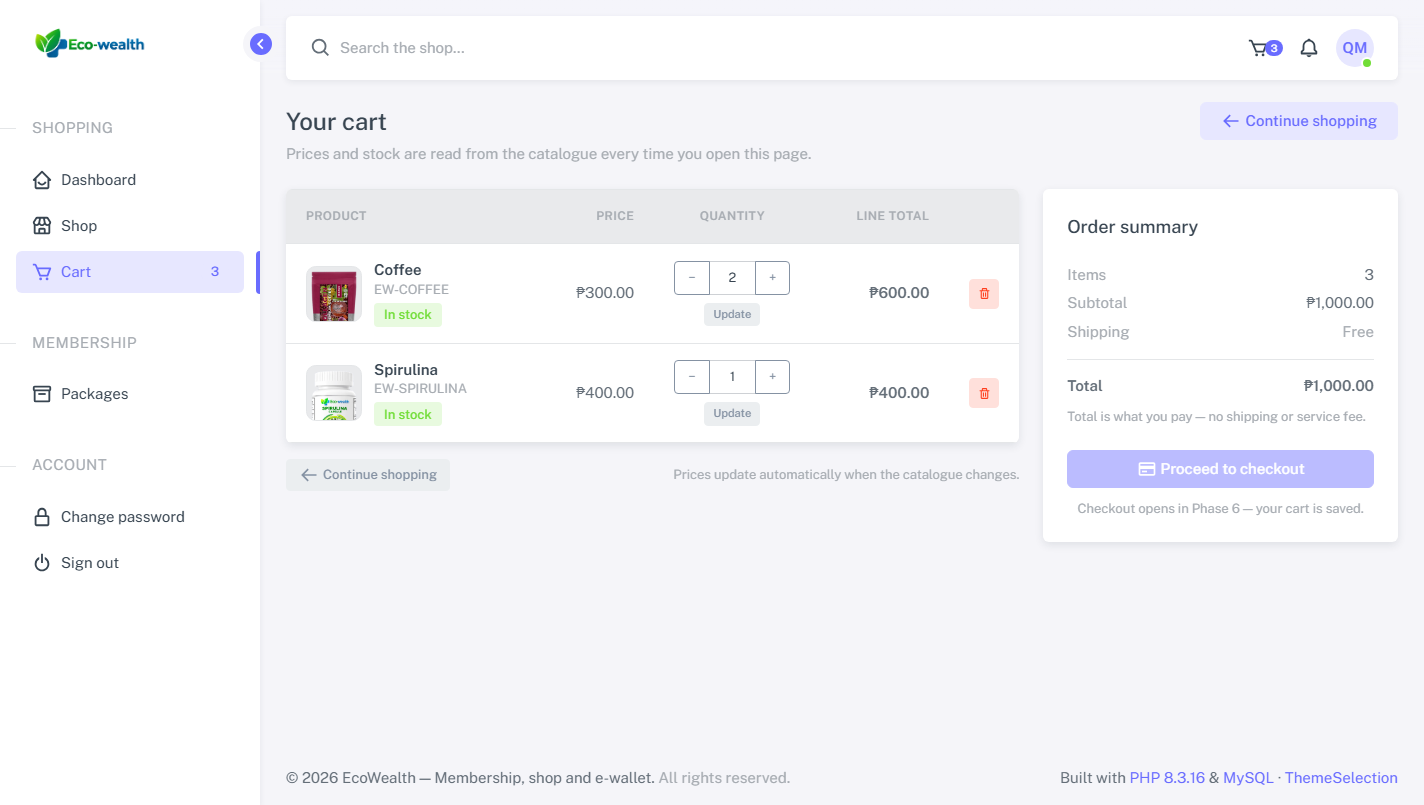
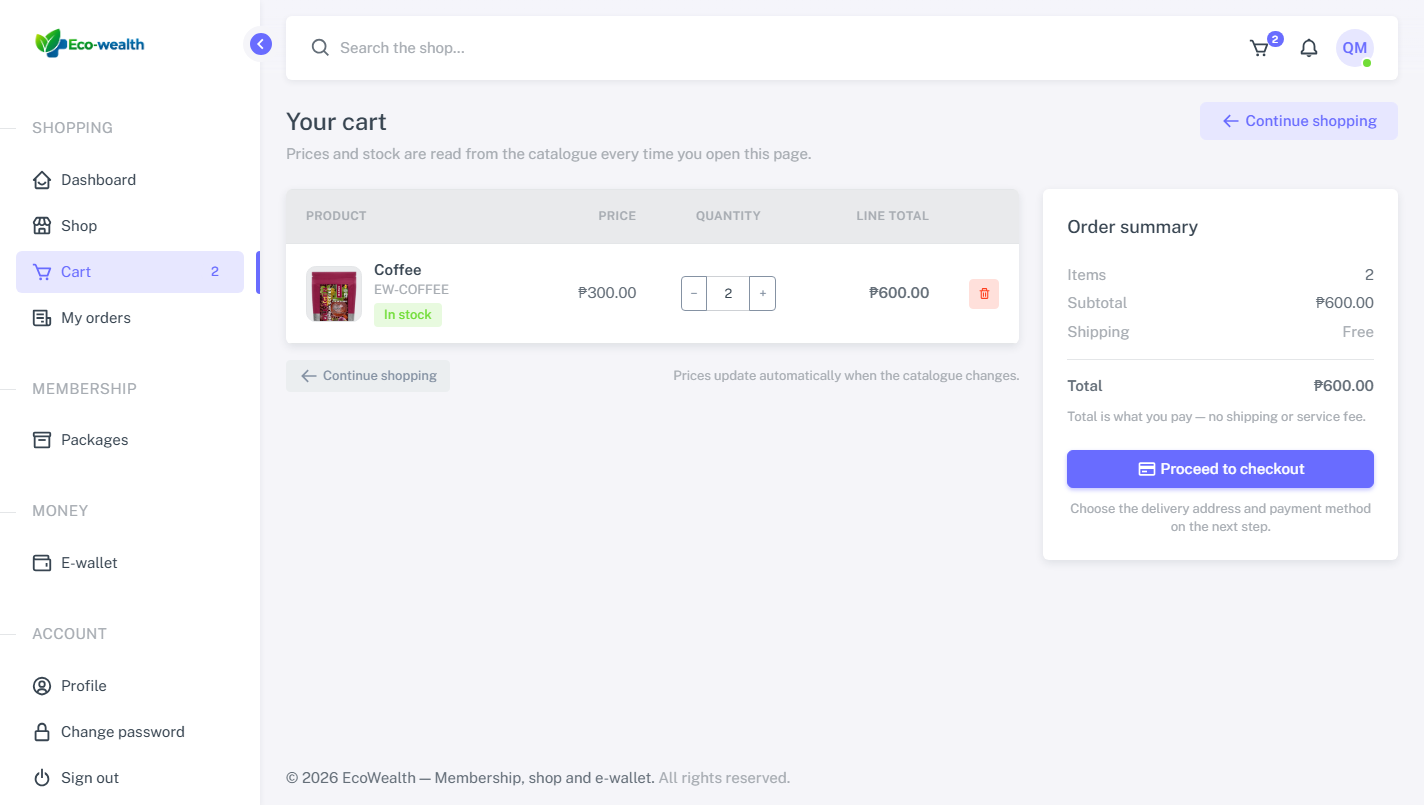
cart: remove the redundant quantity Update button

diff --git a/system/public/assets/css/shop.css b/system/public/assets/css/shop.css
@@ -415,11 +415,6 @@
   width: 4rem;
 }
 
-.cart-update-btn {
-  padding: 0.2rem 0.5rem;
-  font-size: 0.7rem;
-}
-
 .cart-summary {
   position: sticky;
   top: 6rem;

diff --git a/system/app/views/shop/cart.php b/system/app/views/shop/cart.php
@@ -129,7 +129,10 @@ $isEmpty     = $items === [];
                                 <?= csrf_field() ?>
                                 <input type="hidden" name="item_id" value="<?= (int) $item['id'] ?>" />
                                 <!-- First submit button in the form: pressing Enter in the
-                                     quantity field submits the typed value, not a step. -->
+                                     quantity field submits the typed value, not a step.
+                                     There is deliberately no visible "Update" button — the
+                                     steppers are the control, and app-cart.js saves a typed
+                                     quantity as soon as the field changes. -->
                                 <button type="submit" class="visually-hidden" tabindex="-1" aria-hidden="true">Update</button>
                                 <div class="input-group input-group-sm cart-qty-group mx-auto">
                                   <button class="btn btn-outline-secondary" type="submit" name="direction" value="down" data-cart-step="-1" aria-label="Decrease quantity of <?= e((string) $item['product_name']) ?>">&minus;</button>
@@ -145,7 +148,6 @@ $isEmpty     = $items === [];
                                   />
                                   <button class="btn btn-outline-secondary" type="submit" name="direction" value="up" data-cart-step="1" aria-label="Increase quantity of <?= e((string) $item['product_name']) ?>">+</button>
                                 </div>
-                                <button type="submit" class="btn btn-sm btn-label-secondary mt-2 cart-update-btn">Update</button>
                               </form>
                             </td>
                             <td class="text-end text-nowrap fw-semibold" data-line-total><?= e(money((float) $item['line_total'])) ?></td>

diff --git a/system/tests/Cases/CartViewTest.php b/system/tests/Cases/CartViewTest.php
@@ -85,11 +85,25 @@ return [
             'the default submit button must come before the stepper buttons'
         );
 
+        /* The steppers are the only visible quantity controls: the old
+         * "Update" button was removed as redundant (a typed value saves on
+         * change, and Enter still posts through the hidden default). */
+        assert_not_contains('cart-update-btn', $html);
+        assert_same(2, substr_count($html, 'name="direction"'), 'only the two steppers submit the quantity');
+
         assert_contains('Proceed to checkout', $html);
         assert_contains('href="' . url('checkout') . '"', $html);
         assert_contains('Choose the delivery address', $html);
         assert_not_contains('Checkout opens in Phase 6', $html);
         assert_contains('Continue shopping', $html);
+    },
+
+    'P4-T4 a typed quantity saves on change, without a separate Update button' => function (): void {
+        $js = (string) file_get_contents(dirname(__DIR__, 2) . '/public/assets/js/app-cart.js');
+
+        assert_contains("input.matches('[data-cart-qty]')", $js, 'the change listener targets quantity inputs');
+        assert_contains('updateFrom(form);', $js, 'a change posts the typed value');
+        assert_not_contains('cart-update-btn', $js, 'the script does not depend on the removed button');
     },
 
     'P4-T1 an empty cart shows the browse state and no table' => function () use ($render, $stateFor): void {

diff --git a/docs/phase-log.md b/docs/phase-log.md
@@ -1105,4 +1105,36 @@ Phase 7 — manual payments and the order lifecycle: `shop_payment_proofs`, proo
 correction windows, expiry cron. `OrderService` already creates the `pending` order with its deadline and emits the
 first event; Phase 7 adds the document, the review transitions and the `paid`/`payment_failed` side effects.
 
+---
+
+## Post-Phase 6 — Cart quantity saves without an Update button
+
+**Date:** 2026-11-05 · **Status:** complete · **Tests:** 239 PHP cases, 83 smoke checks
+
+### Problem
+
+The cart page rendered a small **Update** button under each quantity stepper. With the **+** / **−** steppers
+and `app-cart.js` already saving a typed quantity on the `change` event (fired when the field loses focus or
+the value is committed), the button had nothing left to do — it read as if a change were still pending.
+
+### Changes
+
+- **`app/views/shop/cart.php`** — removed the visible **Update** button. The visually-hidden first submit
+  stays, so pressing **Enter** in the quantity field still posts the typed value (with and without JavaScript).
+- **`public/assets/css/shop.css`** — removed the now-unused `.cart-update-btn` rule.
+- **`tests/Cases/CartViewTest.php`** — the cart-page case asserts there is no update button and exactly two
+  stepper submits; a new case proves `app-cart.js` still saves a typed quantity on `change`.
+- **QA documentation** — QA4-05, QA4-06, QA4-10 and QA4-13 now say to press **Enter** or use the steppers
+  instead of clicking a button that no longer exists.
+- **Evidence** — refreshed `docs/qa/evidence/phase-4/final-cart-desktop.png` and `final-cart-mobile.png`.
+
+### Verification
+
+- `php tests\run.php` — **239 / 239**.
+- `powershell -NoProfile -File tests\smoke.ps1` — **83 / 83**.
+- Headless Chrome on `/cart` as `QA_Member_01`: 0 `.cart-update-btn` elements, exactly 2 stepper submits;
+  typing **3** and firing `change` saved the line (quantity 3, line total ₱900.00); restoring **2** saved
+  again; no console errors.
+
+
 

diff --git a/docs/qa/phase-4-cart.md b/docs/qa/phase-4-cart.md
@@ -156,7 +156,9 @@ P4-T11 JSON contract · P4-T12 no-JS add · P4-T13 drawer refresh.
 
 1. Add **Coffee ×1** and **Spirulina ×1** (QA4-02 shows how).
 2. Open `/cart`.
-3. Change the Coffee quantity to **3** and press **Update** (or press Enter).
+3. Change the Coffee quantity to **3** and press **Enter** — the value saves when the field changes, so
+   clicking away also works. There is no separate **Update** button; the **+** / **−** steppers are the
+   control.
 4. Click the red **trash** icon on Spirulina.
 
 **Expected**
@@ -177,7 +179,7 @@ P4-T11 JSON contract · P4-T12 no-JS add · P4-T13 drawer refresh.
 
 **Steps**
 
-1. With one line in the cart, type **0** in its quantity box and press **Update**.
+1. With one line in the cart, type **0** in its quantity box and press **Enter**.
 
 **Expected**
 
@@ -271,7 +273,7 @@ P4-T11 JSON contract · P4-T12 no-JS add · P4-T13 drawer refresh.
 1. Add **Serpentina** ×1 to the cart.
 2. As `admin`, disable Serpentina (pause icon).
 3. Reload `/cart` as the member.
-4. Try **+** on its quantity, then set the quantity to **0** and press **Update**.
+4. Try **+** on its quantity, then set the quantity to **0** and press **Enter**.
 
 **Expected**
 
@@ -352,7 +354,8 @@ P4-T11 JSON contract · P4-T12 no-JS add · P4-T13 drawer refresh.
 
 1. DevTools → **Settings** (gear) → **Debugger** → tick **Disable JavaScript**. Reload `/shop`.
 2. Open a product (e.g. `/shop/2`), set quantity **2**, click **Add to cart**.
-3. Open `/cart` and change a quantity with **Update**.
+3. Open `/cart`, type a new quantity in the field and press **Enter**. (There is no visible **Update**
+   button: the **+** / **−** buttons are the submit controls, and Enter posts the typed number.)
 4. Click the row's **+** button twice, then its **−** button once.
 5. Press Enter while the quantity field is focused (type a new number first).
 6. Remove a line with the trash button.
